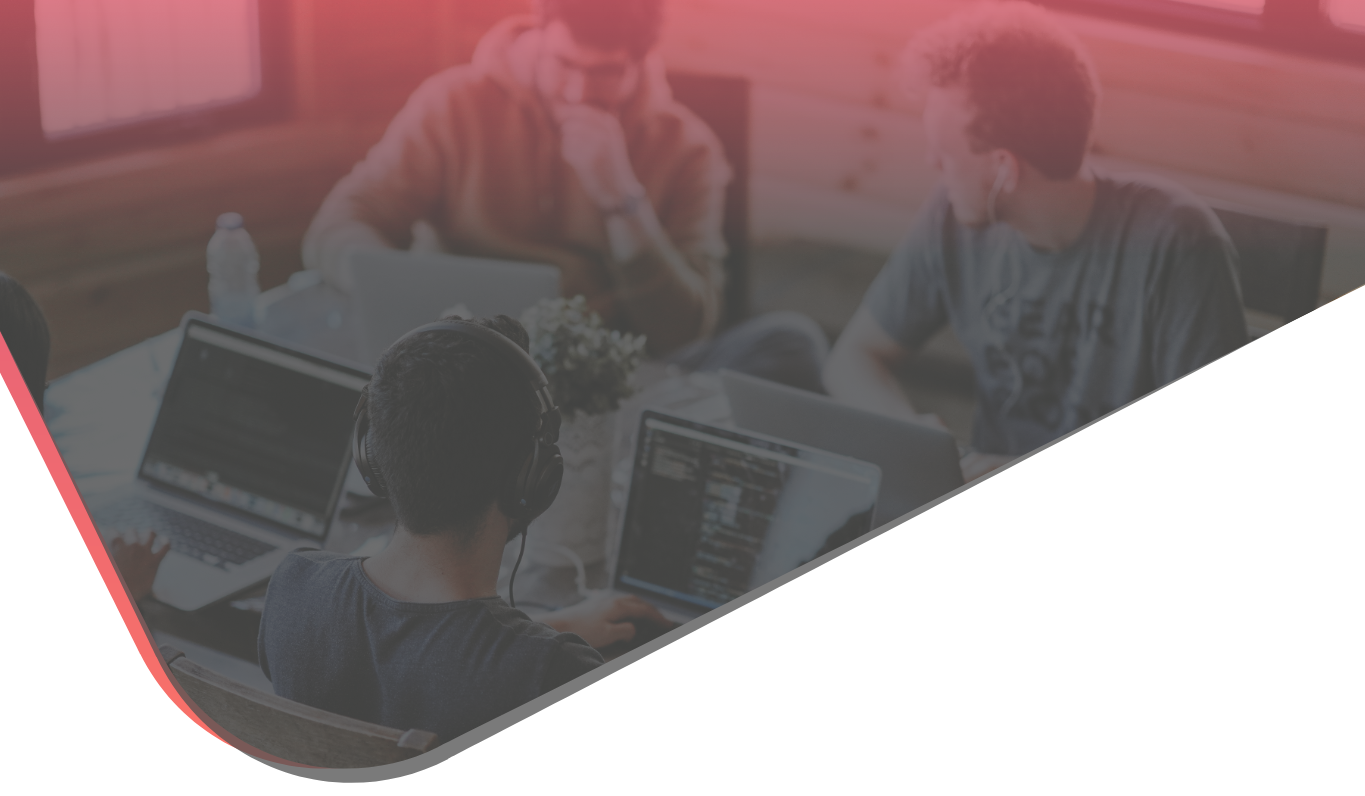
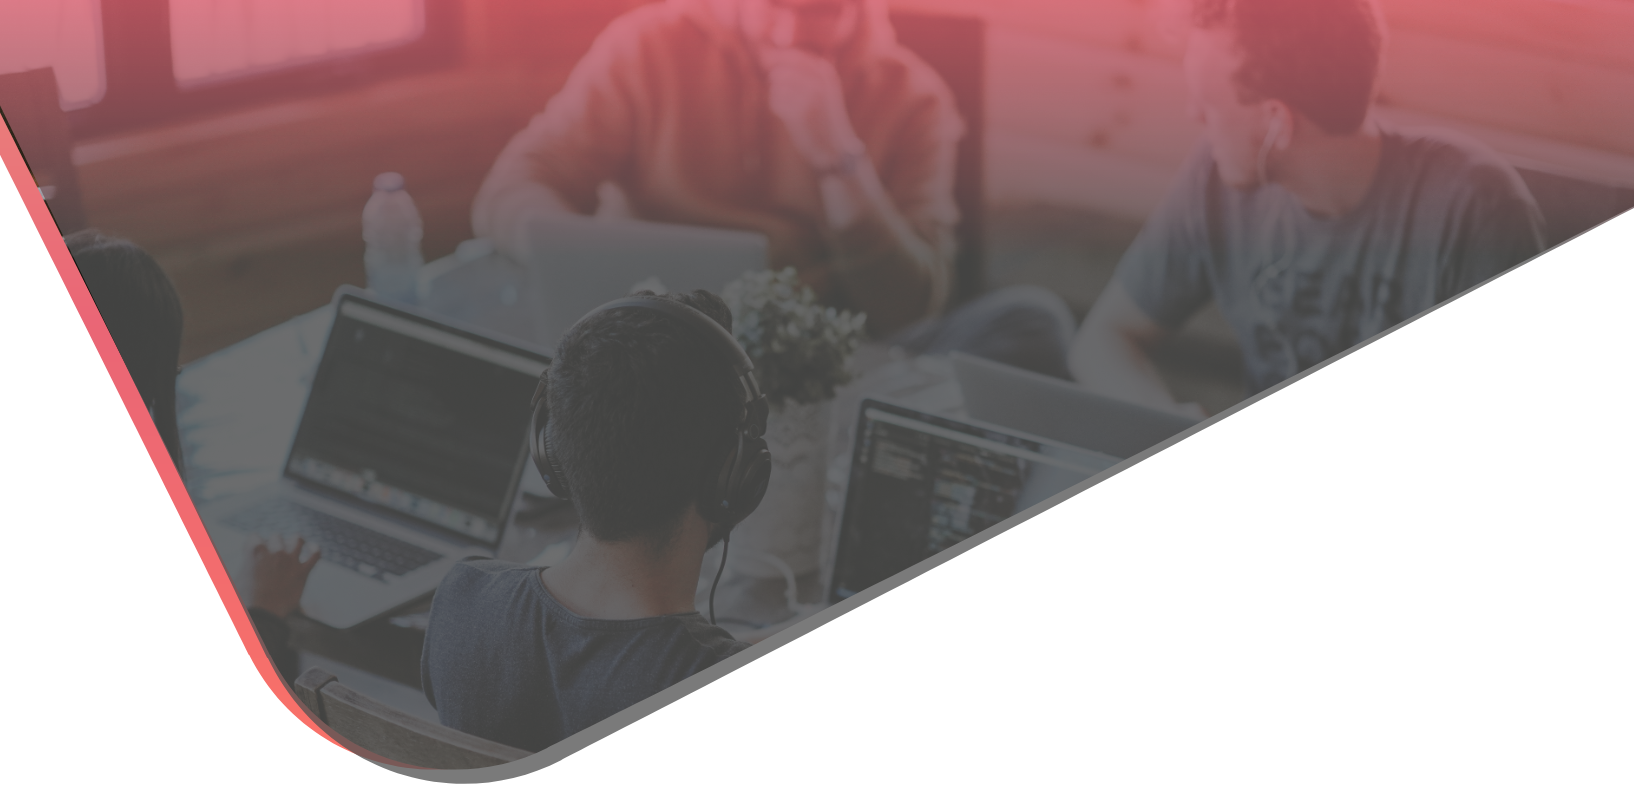
scnd

diff --git a/index.html b/index.html
@@ -1,0 +1,17 @@
+<!DOCTYPE html>
+<html lang="en">
+  <head>
+    <meta charset="UTF-8" />
+    <meta name="viewport" content="width=device-width, initial-scale=1.0" />
+    <meta http-equiv="X-UA-Compatible" content="ie=edge" />
+    <link
+      rel="stylesheet"
+      href="./node_modules/bootstrap/dist/css/bootstrap.min.css"
+    />
+    <link rel="stylesheet" href="./assets/css/style.css" />
+    <title>Document</title>
+  </head>
+  <body>
+    <header></header>
+  </body>
+</html>

diff --git a/assets/css/style.css b/assets/css/style.css
@@ -123,3 +123,9 @@ table {
   border-collapse: collapse;
   border-spacing: 0;
 }
+header {
+  height: 100vh;
+  background: url(../images/header-bg.png);
+  background-size: cover;
+  background-position: center;
+}
